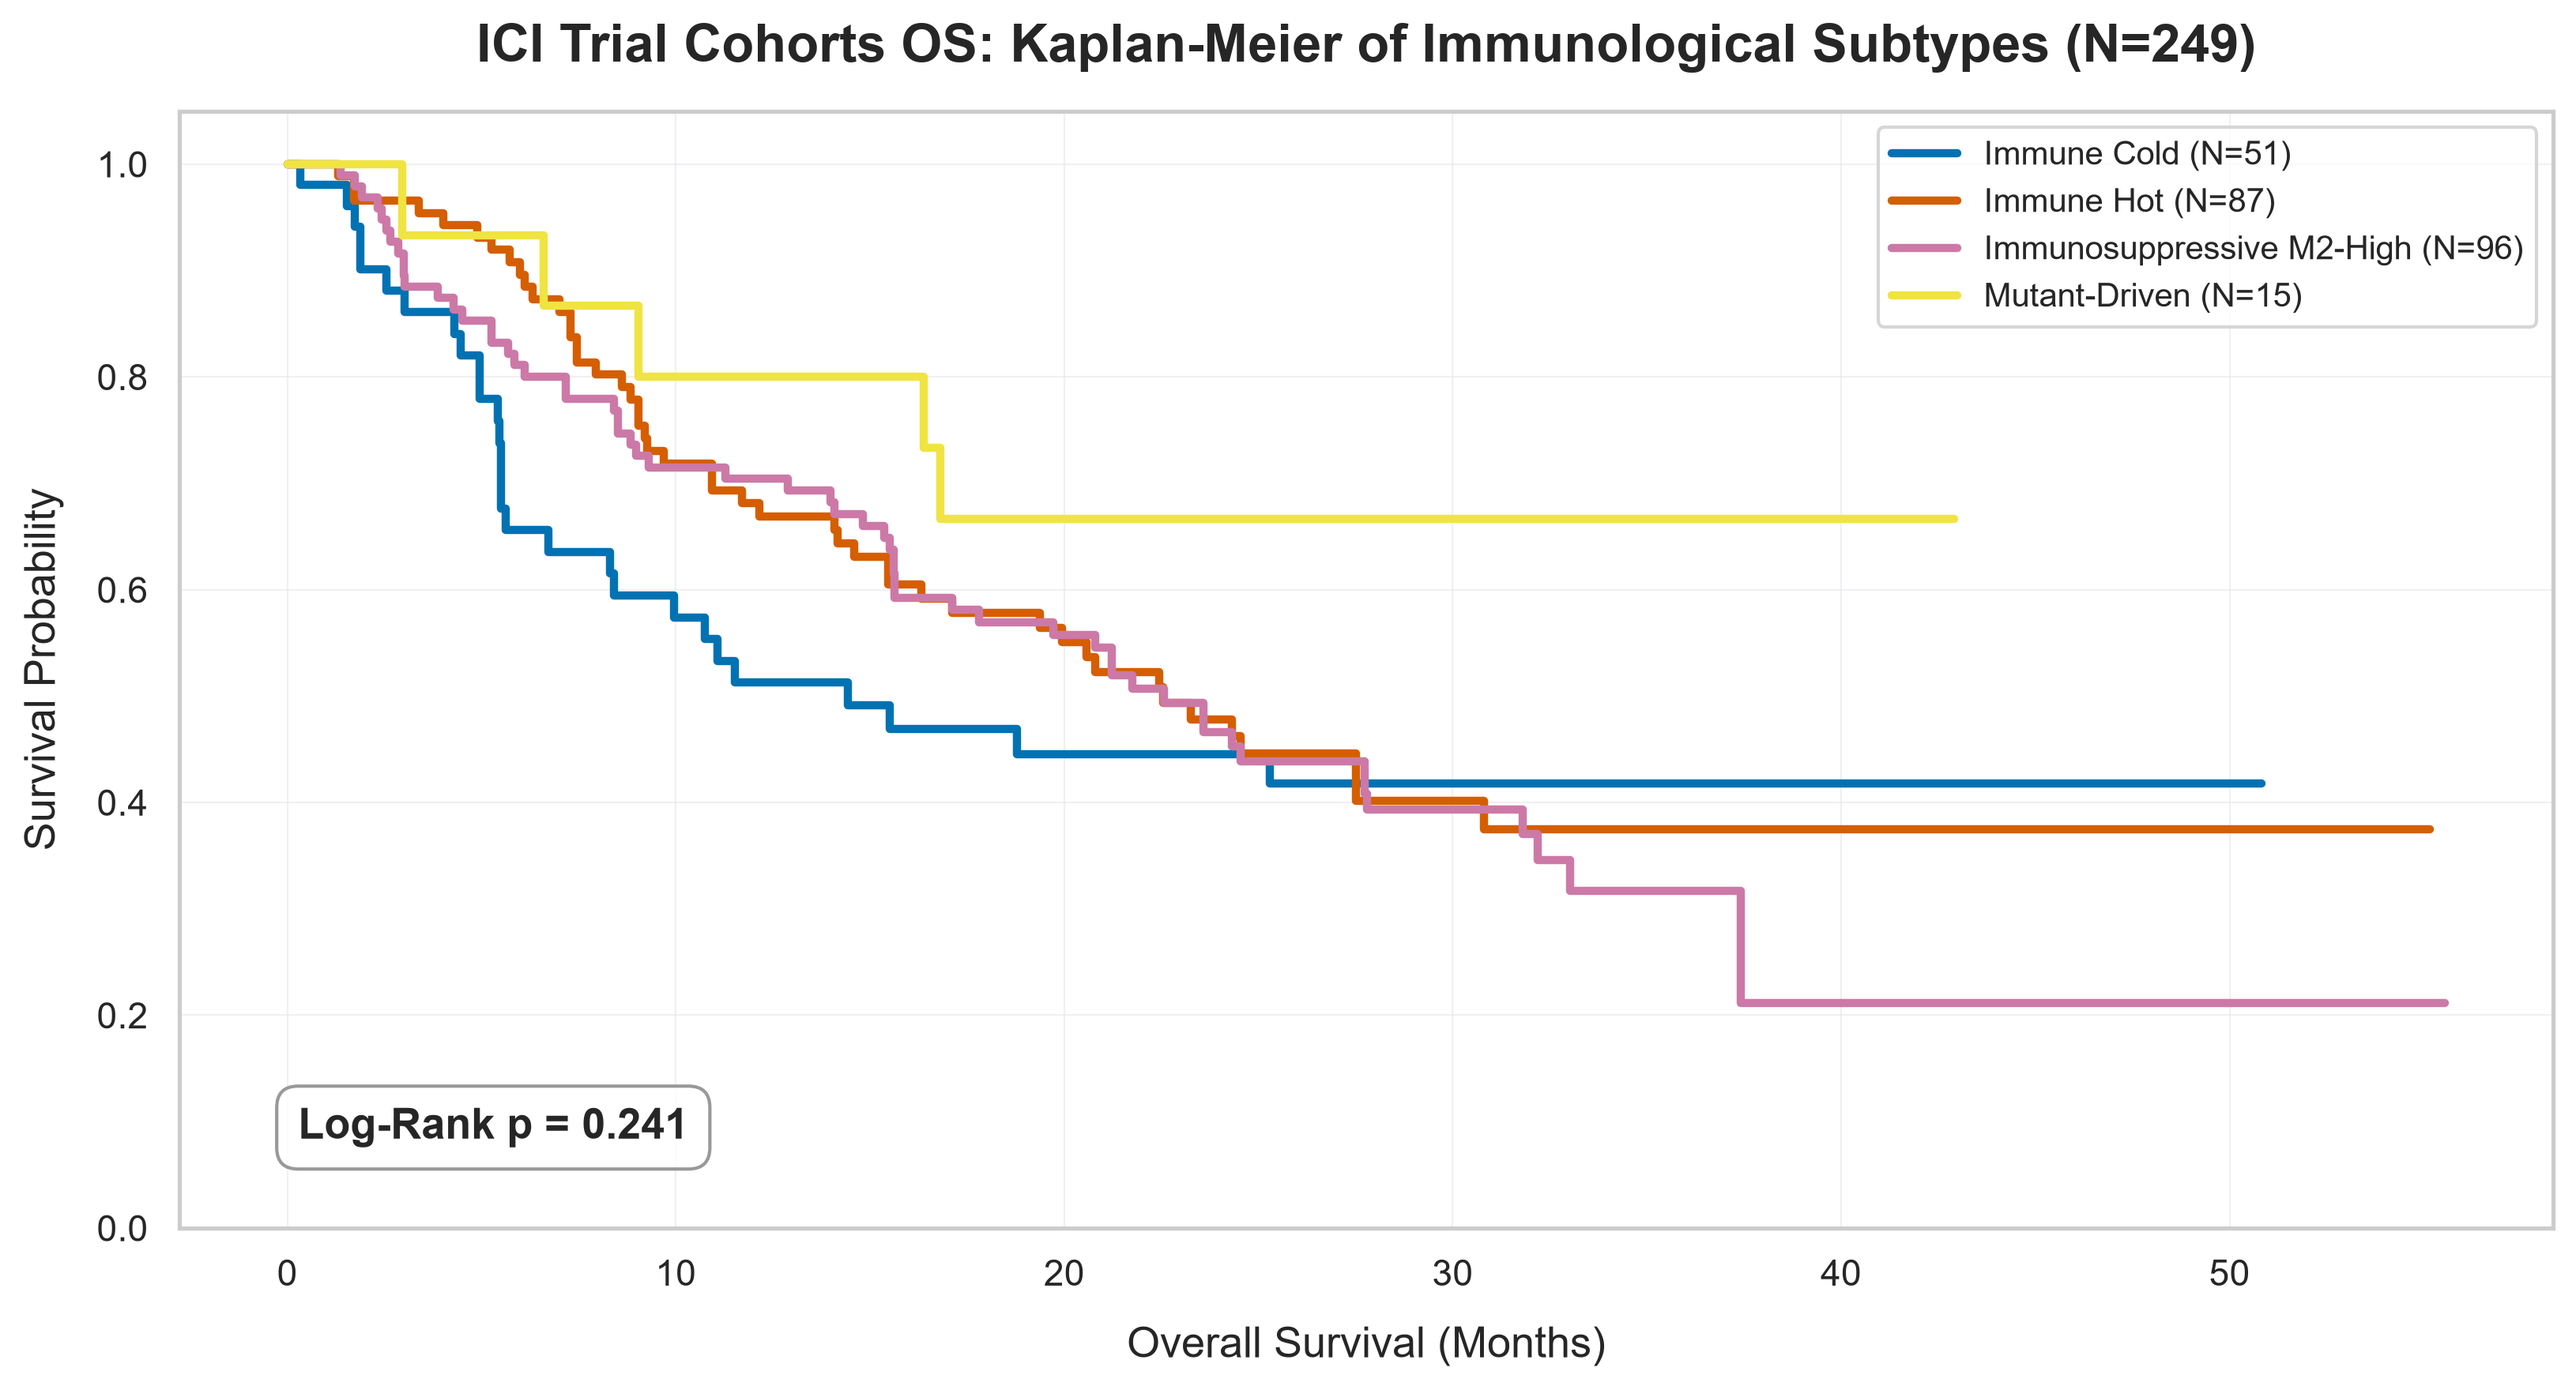
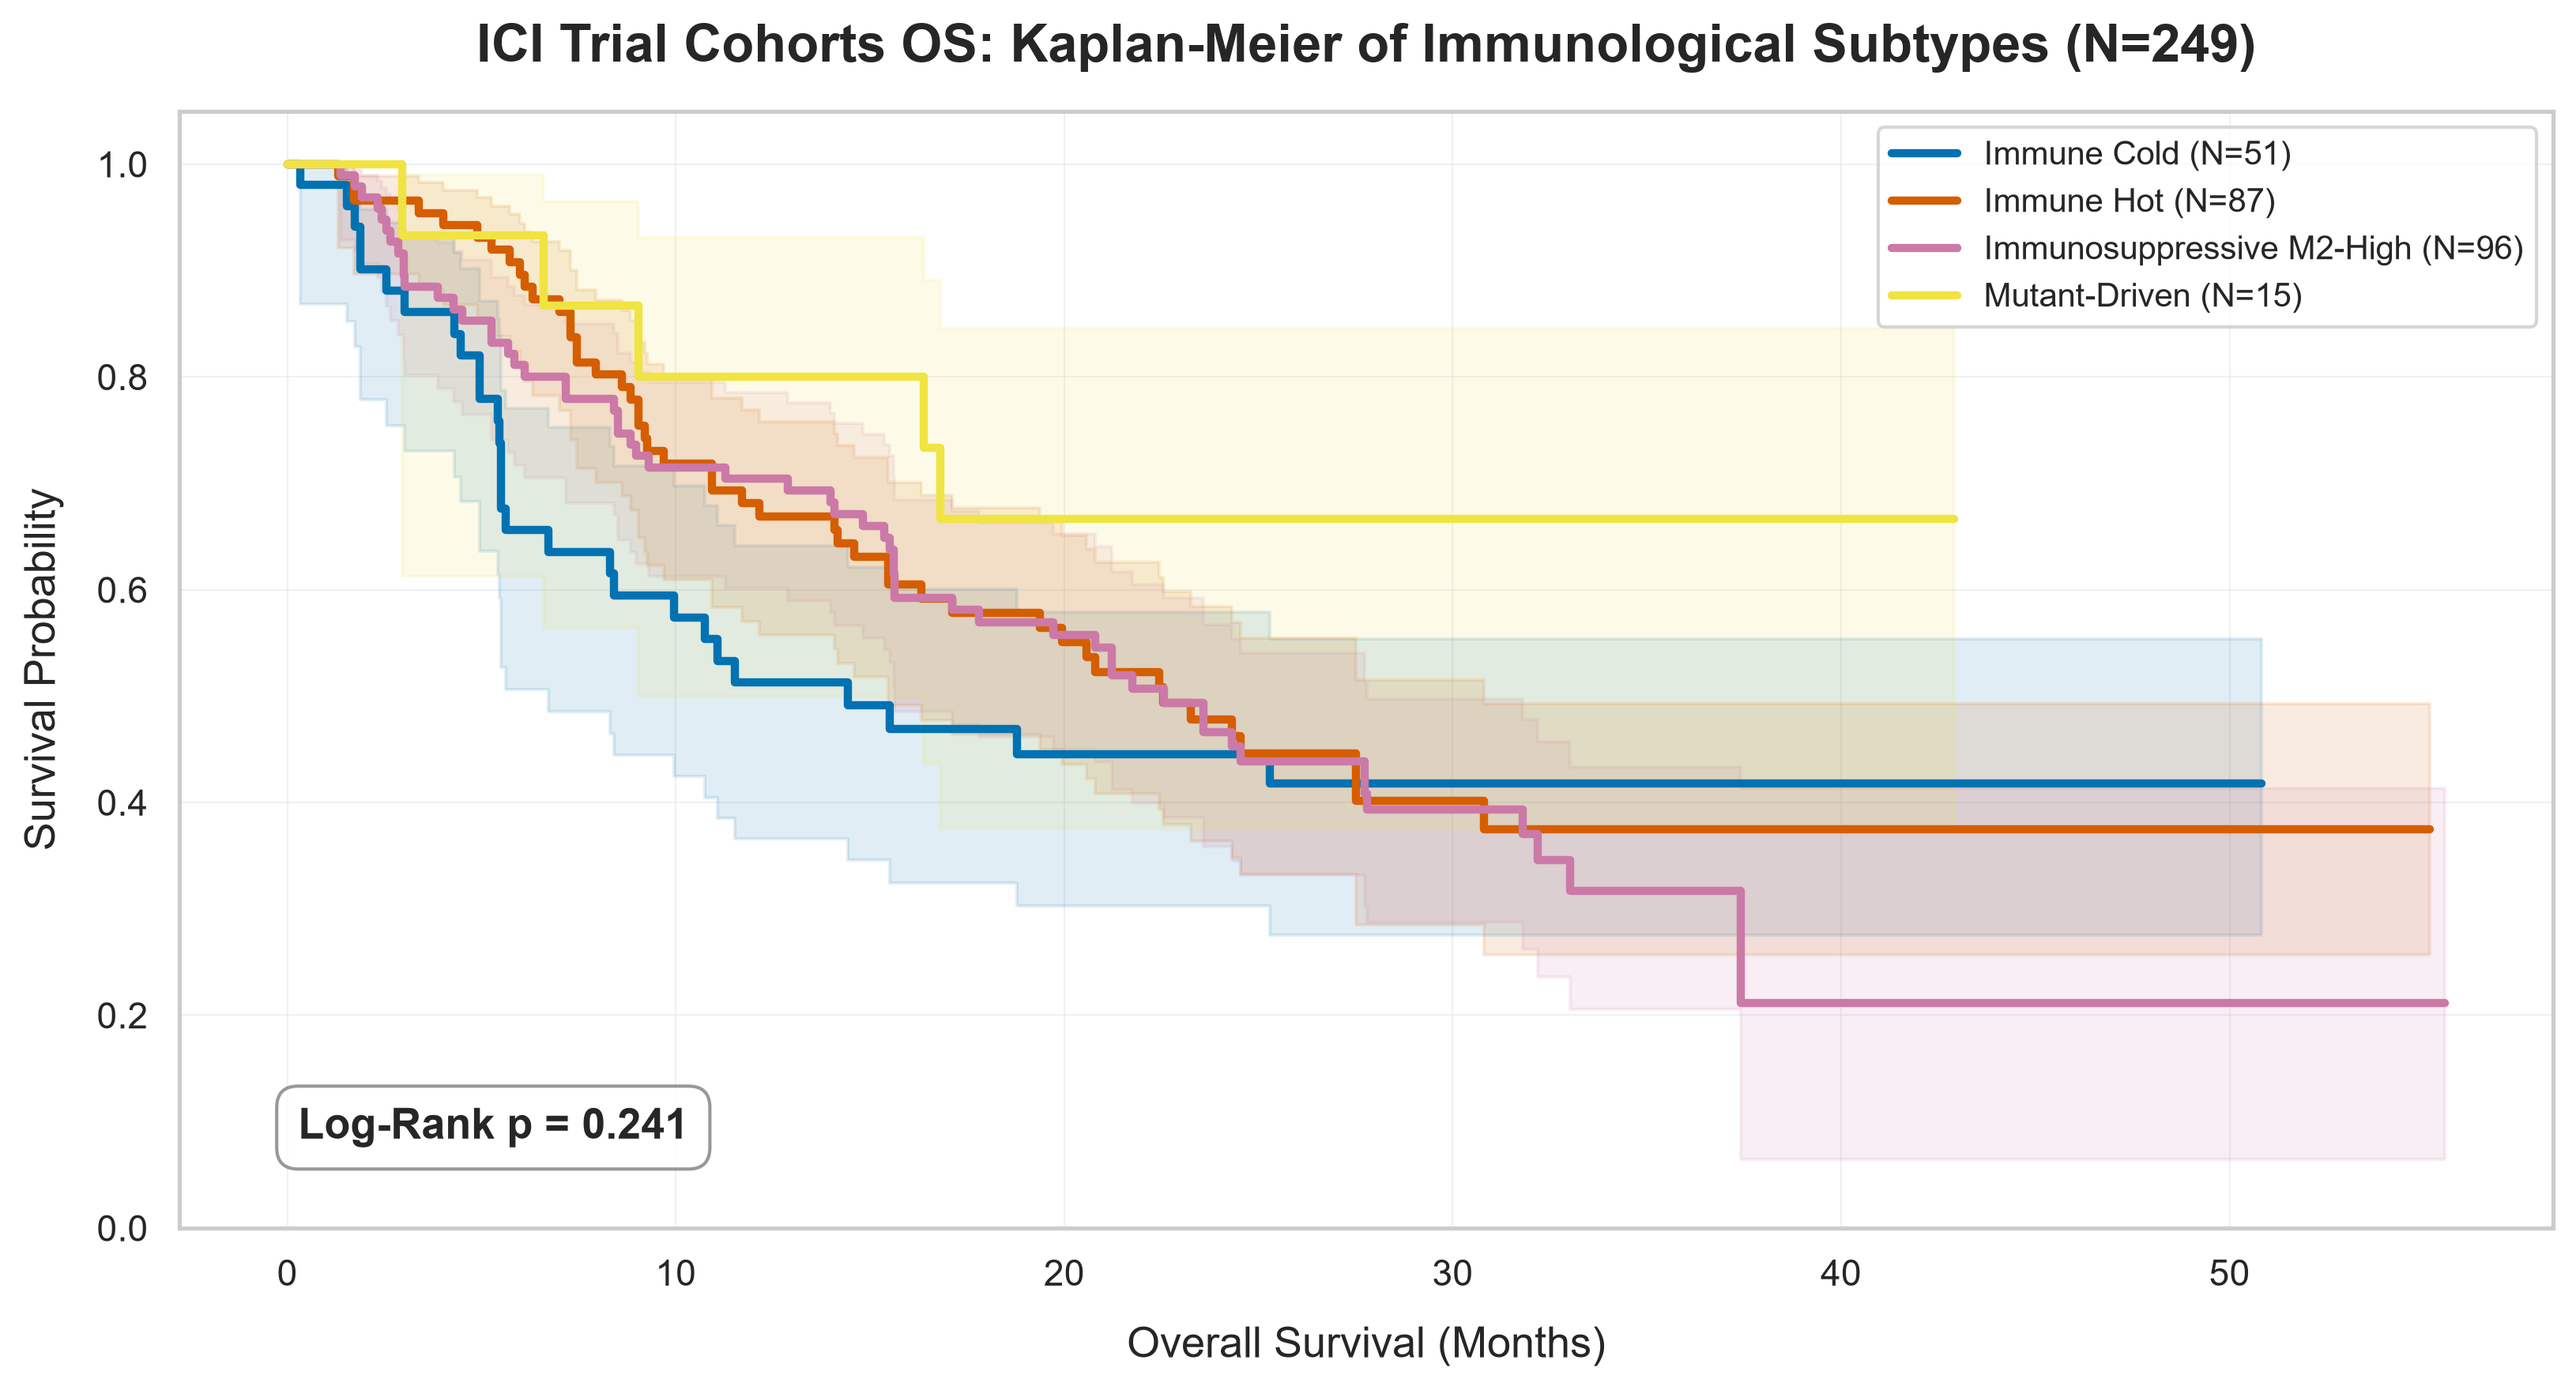
style(km): add 95% CI confidence shading to KM survival curves

Changed region(s): [[0.0929, 0.125, 0.9604, 0.6875]]

diff --git a/q1-response-predictor/scripts/pillar-2-clinical-subtyping/run_clinical_clustering.py b/q1-response-predictor/scripts/pillar-2-clinical-subtyping/run_clinical_clustering.py
@@ -900,7 +900,7 @@ def _plot_cluster_survival(
             continue
         km_label = f"{name} (N={mask.sum()})"
         kmf.fit(sub_df["OS_MONTHS"], sub_df["OS_STATUS"], label=km_label)
-        kmf.plot_survival_function(ax=ax, color=color, ci_show=False, linewidth=2.5)
+        kmf.plot_survival_function(ax=ax, color=color, ci_show=True, ci_alpha=0.12, linewidth=2.5)
 
         med = kmf.median_survival_time_
         median_survivals[cid] = "Not Reached" if (np.isinf(med) or pd.isna(med)) else f"{med:.1f} months"

diff --git a/q1-response-predictor/reports/pillar-1-cohorts-and-preprocessing/cohort_characteristics_clinical.md b/q1-response-predictor/reports/pillar-1-cohorts-and-preprocessing/cohort_characteristics_clinical.md
@@ -149,6 +149,8 @@ _**Figure 4: Forest Plot of Univariate Odds Ratios for Clinical and Genomic Feat
 > - **Attrition Tracking Scope**: Sample attrition tracking records sample filtering from initial cBioPortal data ingestion through clinical-expression alignment. Downstream feature engineering steps may impose additional filters not captured here.
 > - **Median OS Reporting**: Where the estimated survival probability did not fall below 50% during follow-up, median OS is reported as **NR (not reached)**.
 
+---
+
 > [!formula]+ Clinical Analysis Script Execution & Software Module Architecture
 > - **Primary Pipeline Execution Scripts**:
 >   - [`run_clinical_analysis.py`](file:///c:/Users/Amanda/Dropbox/OBSIDIAN/42/090%20STUDY/091%20UCD/091.03%20ASSIGNMENTS/AI-ML-3/melanoma-assignment-3/q1-response-predictor/scripts/pillar-1-cohort-preprocessing/run_clinical_analysis.py): Generates baseline demographic grids, attrition metrics, cohort characteristics tables, Kaplan-Meier OS curves, and writes `cohort_characteristics_clinical.md`.

diff --git a/q1-response-predictor/reports/pillar-2-clinical-subtyping/clinical_feature_selection_report.md b/q1-response-predictor/reports/pillar-2-clinical-subtyping/clinical_feature_selection_report.md
@@ -126,6 +126,8 @@ Contrasting unadjusted Univariate $\text{OR}$ (blue circles) against multivariab
 > - **High-Dimensional Tier 2 Feature Space**: One-hot encoding of 23 clinical variables against $N = 195$ patients creates a sparse matrix.
 > - **No TCGA Pathological Staging**: Granular TNM staging and AJCC categories are not available in the ICI cohorts.
 
+---
+
 > [!formula]+ Clinical Feature Selection Script Execution & Software Module Architecture
 >   - **Primary Pipeline Execution Scripts**:
 >     - [`run_clinical_feature_selection.py`](file:///c:/Users/Amanda/Dropbox/OBSIDIAN/42/090%20STUDY/091%20UCD/091.03%20ASSIGNMENTS/AI-ML-3/melanoma-assignment-3/q1-response-predictor/scripts/pillar-2-clinical-subtyping/run_clinical_feature_selection.py): Two-tiered ICI feature selection (N=256 across 3 cohorts) using RF Gini importance and Logistic Regression against anti-PD-1 binary response.

diff --git a/q1-response-predictor/reports/pillar-2-clinical-subtyping/clinical_phenotyping_and_feature_selection.md b/q1-response-predictor/reports/pillar-2-clinical-subtyping/clinical_phenotyping_and_feature_selection.md
@@ -12,12 +12,12 @@ tags:
   - clustering
   - immune-hot-cold
   - nf1-split
-created: 2026-08-07 15:21
+created: 2026-08-07 15:23
 cssclasses:
   - table-small
   - table-center
   - row-alt
-updated: 2026-08-07 15:21
+updated: 2026-08-07 15:23
 ---
 
 # Patient Phenotyping via ICI Trial Cohort Two-Stage GMM Clustering

diff --git a/q1-response-predictor/reports/pillar-1-cohorts-and-preprocessing/cohort_characteristics_genomic.md b/q1-response-predictor/reports/pillar-1-cohorts-and-preprocessing/cohort_characteristics_genomic.md
@@ -201,6 +201,8 @@ clinical annotation tracks._
 > analyses focus on patients with definitive RECIST response classifications (CR/PR vs. PD),
 > excluding Stable Disease.
 
+---
+
 > [!formula]+ Genomic Characterisation Script Execution & Software Module Architecture
 >
 > - **Primary Pipeline Execution Scripts**:
